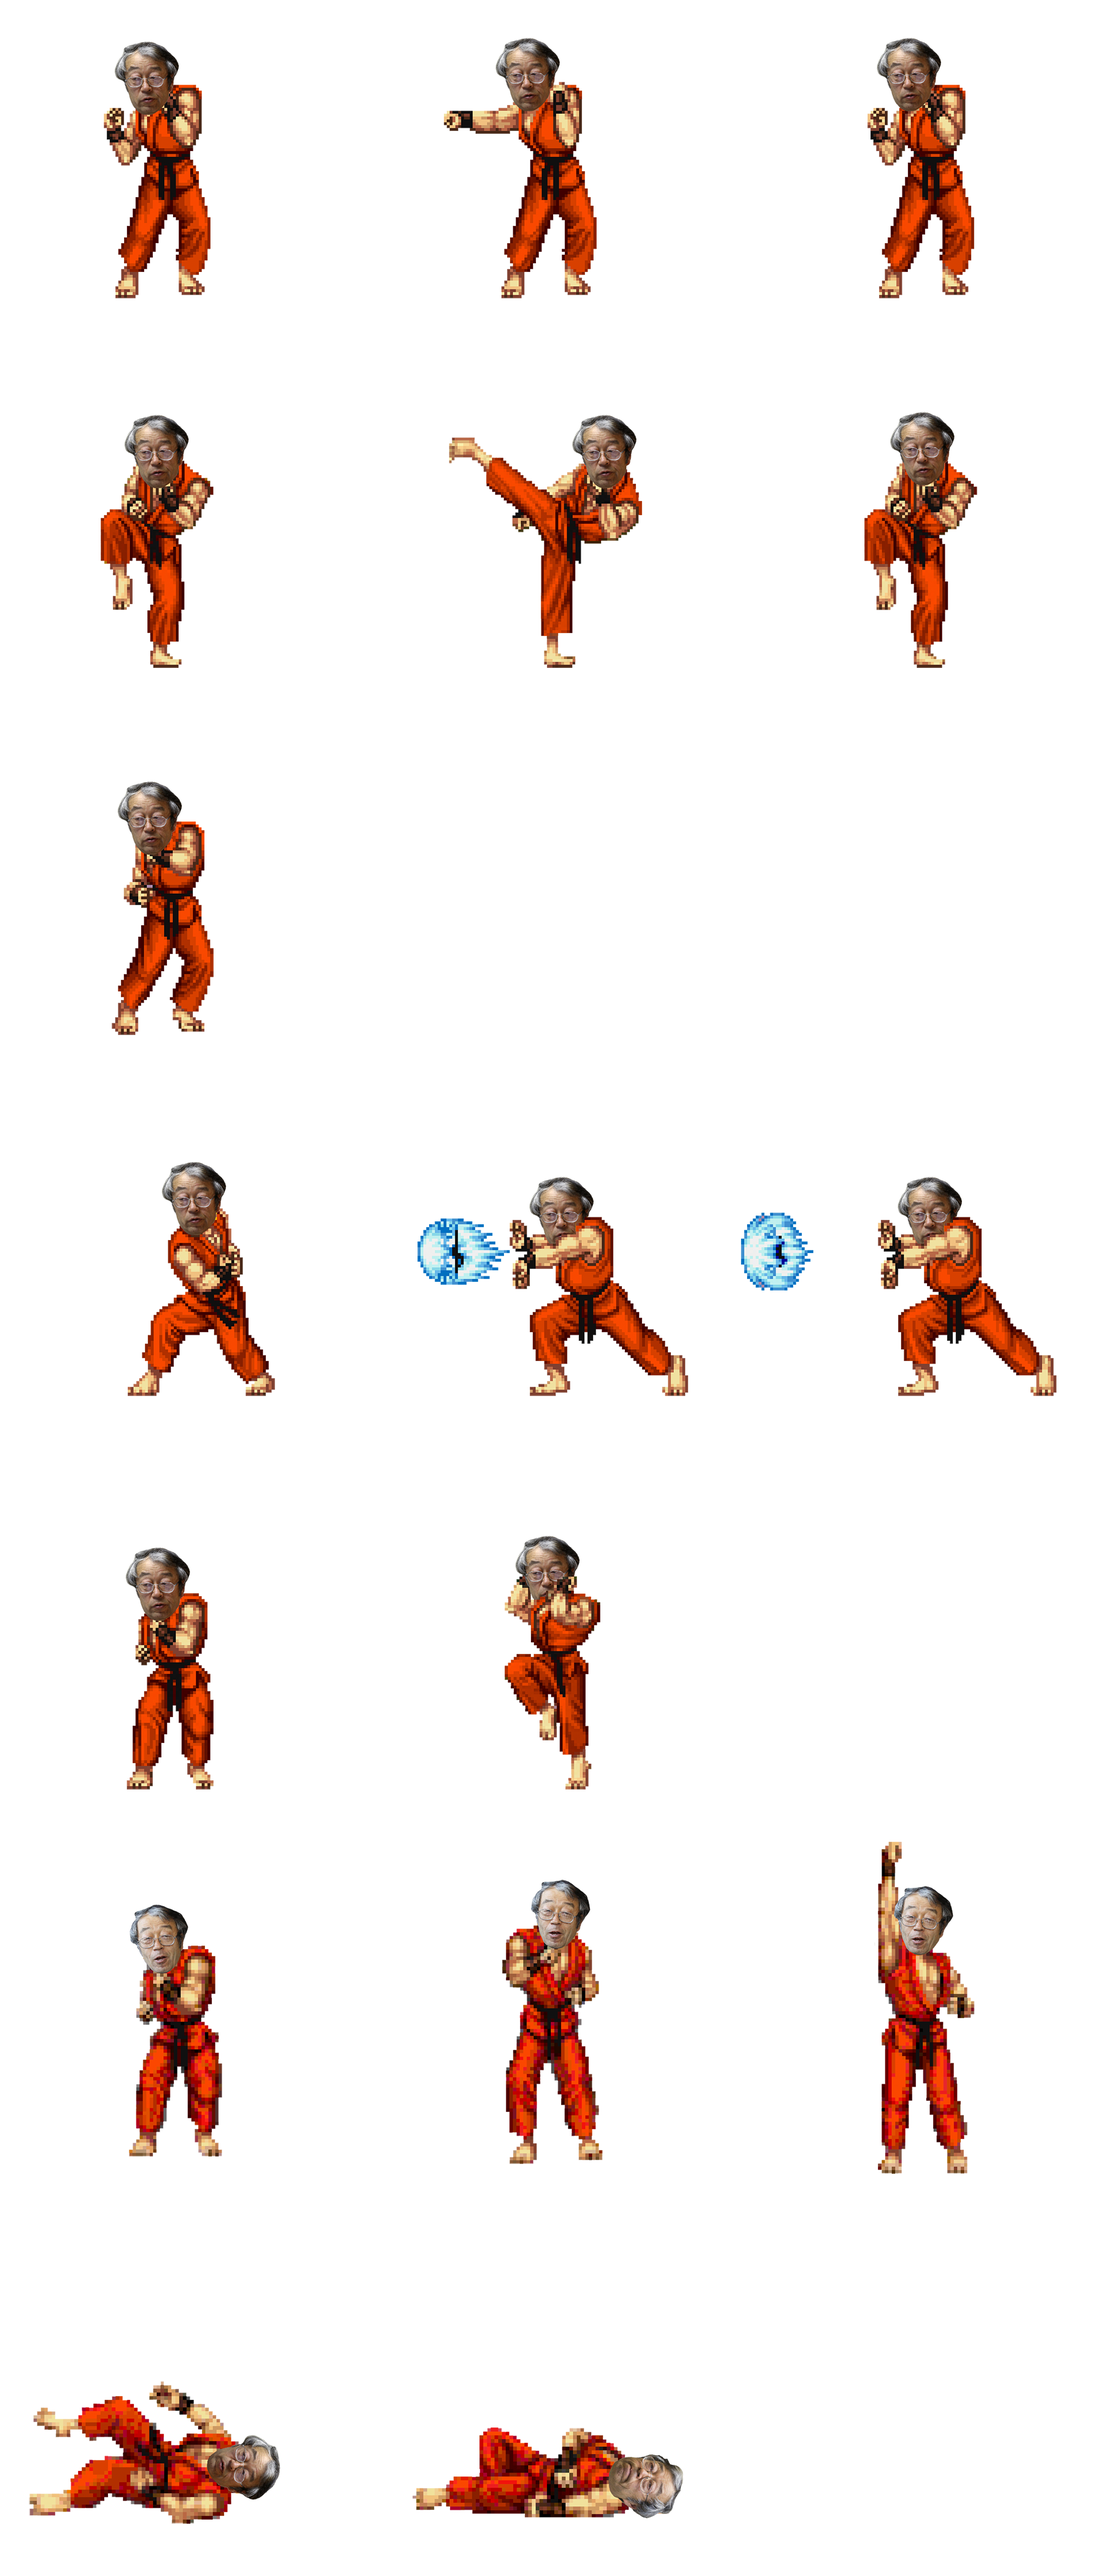
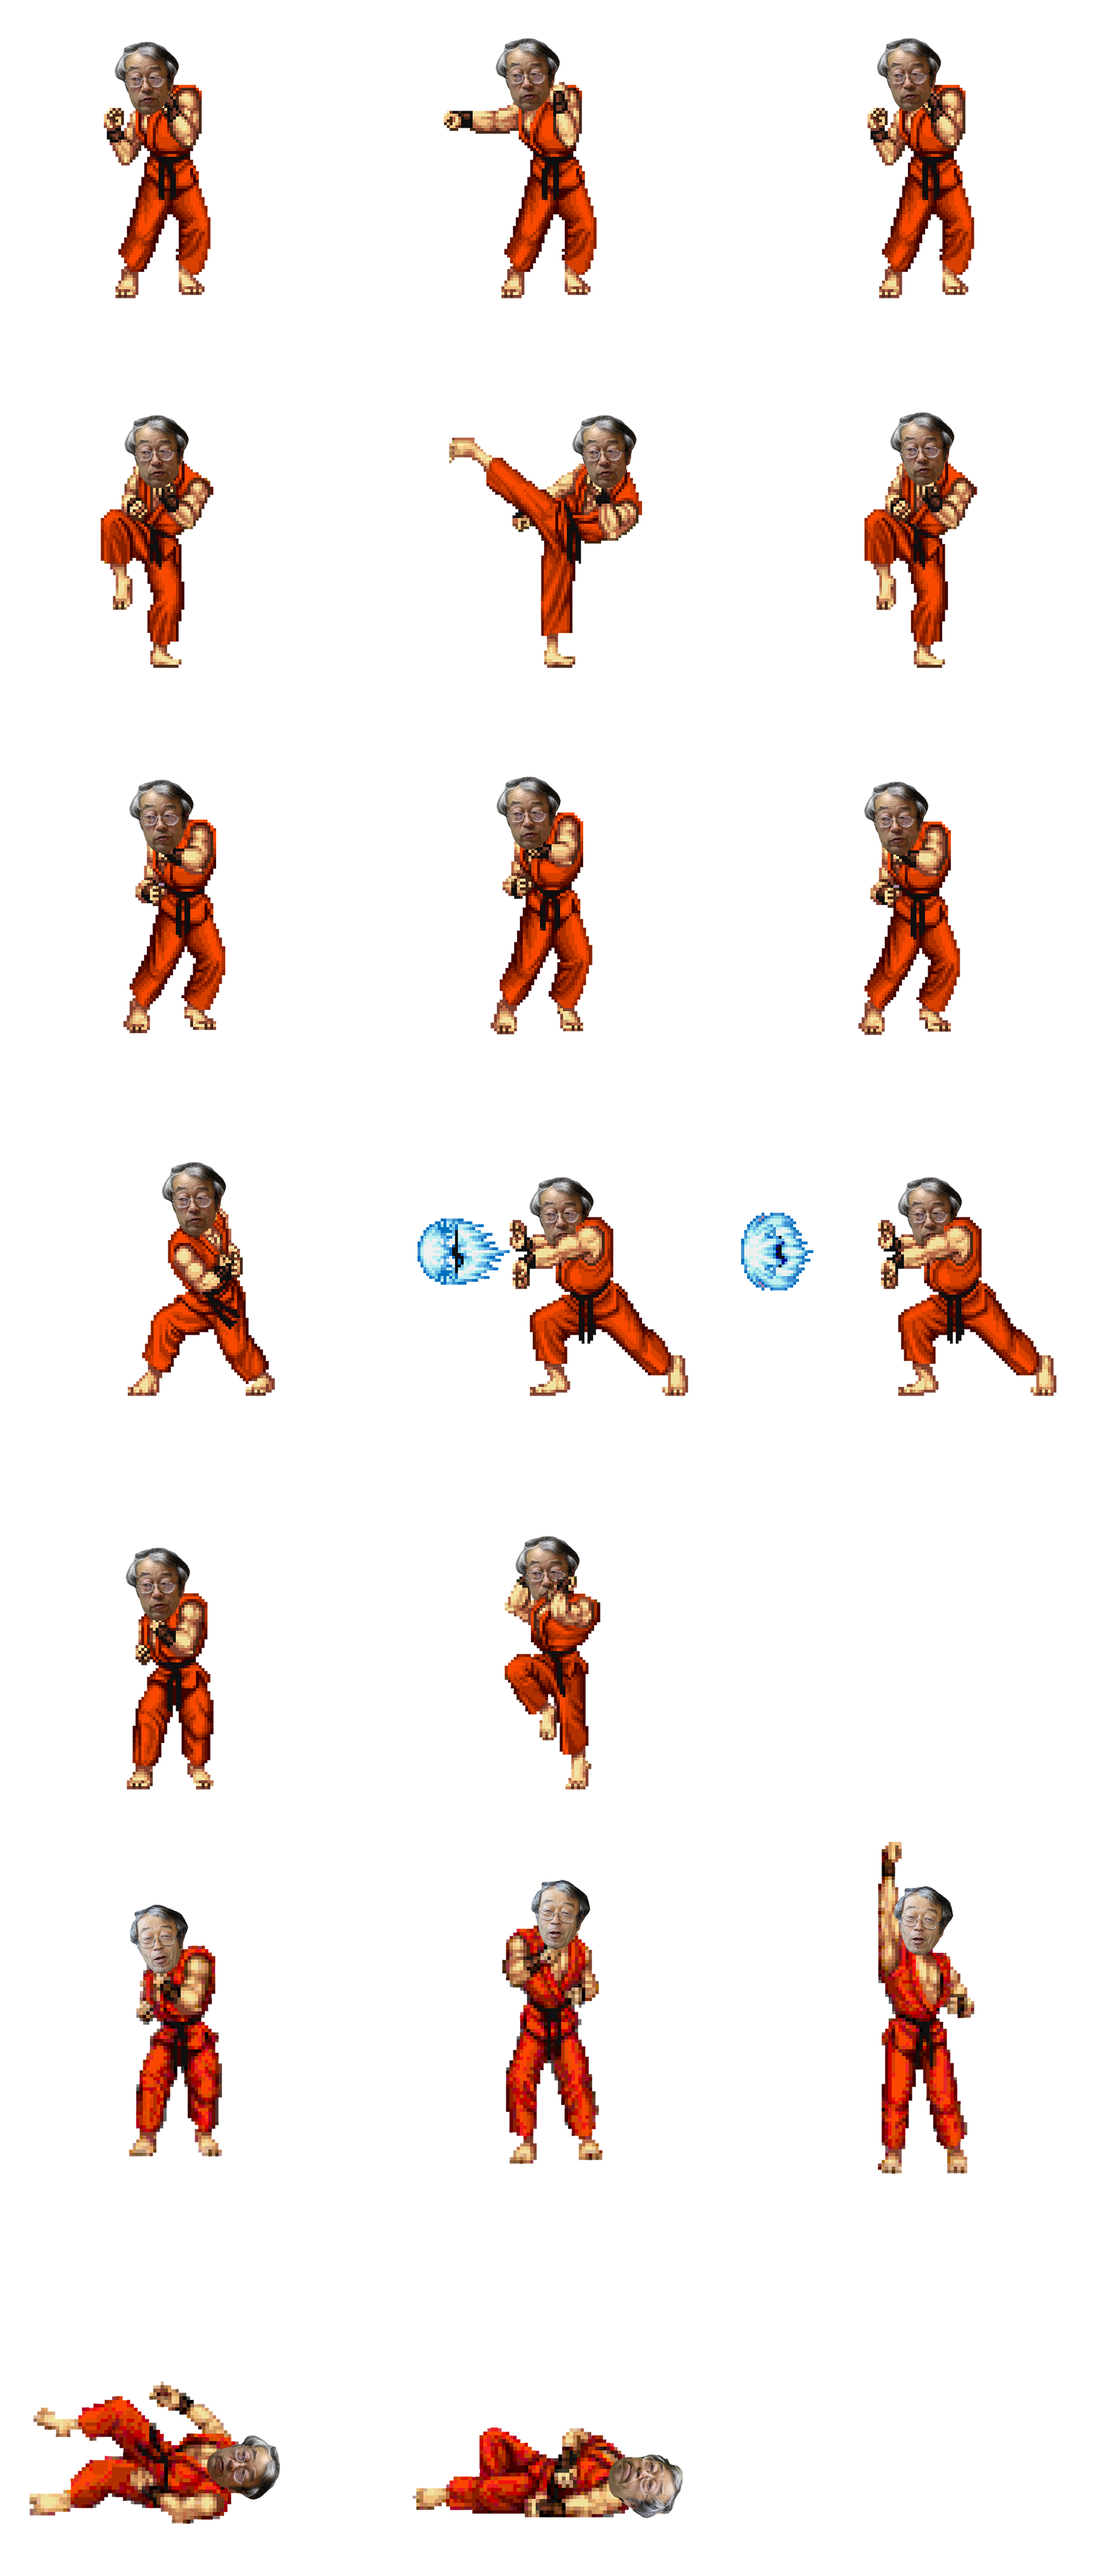
update sprites, health bar

Changed region(s): [[0.0933, 0.281, 0.2178, 0.4059], [0.7778, 0.281, 0.8711, 0.4059], [0.4356, 0.281, 0.5289, 0.4059]]

diff --git a/src/routes/home/components/character.js b/src/routes/home/components/character.js
@@ -1,6 +1,5 @@
 import React, { Component } from 'react';
 import PropTypes from 'prop-types';
-import { observer } from 'mobx-react';
 import Matter from 'matter-js';
 
 import { AudioPlayer, Body, Sprite } from 'react-game-kit';
@@ -29,6 +28,7 @@ export default class Character extends Component {
     this.isActive = props.isActive;
     this.fighter = props.fighter;
     this.health = props.health;
+
     this.isPunching = false;
     this.isKicking = false;
     this.isUltraing = false;
@@ -43,9 +43,10 @@ export default class Character extends Component {
       spritePlaying: true,
       stageX: 0,
       characterPosition: {
-        x: this.side == 'l' ? 0 : 600,
-        y: 0
-      }
+        x: this.side == 'l' ? 0 : 400,
+        y: 20
+      },
+      characterHealth: 2000
     };
 
     this.handlePlayStateChanged = this.handlePlayStateChanged.bind(this);
@@ -88,7 +89,9 @@ export default class Character extends Component {
     return (
       <div>
         <div style={this.getWrapperStyles()}>
-          <HealthBar />
+          <HealthBar 
+            health={this.state.characterHealth}
+          />
           <Body
             args={[x, 84, 600, 600]}
             inertia={Infinity}
@@ -102,7 +105,7 @@ export default class Character extends Component {
               src={"./src/assets/fighter"+this.fighter+"_"+this.side+".png"}
               scale={this.context.scale}
               state={this.state.characterState}
-              steps={[2, 2, 0, 2, 1, 2, 1]}
+              steps={[2, 2, 2, 2, 1, 2, 1]}
               tileHeight={600}
               tileWidth={600}
             />
@@ -166,9 +169,15 @@ export default class Character extends Component {
     this.isWon = true;
     this.setState({
       characterState: 5,
-      repeat: false,
+      repeat: true,
     });
   };
+
+  loseHealth(point) {
+    this.setState({
+      characterHealth: (this.state.characterHealth - 20 * point) >= 0 ? (this.state.characterHealth - 20 * point) : 0
+    });
+  }
 
   checkKeys(shouldMoveStageLeft, shouldMoveStageRight) {
     const { keys, store } = this.props;
@@ -194,6 +203,7 @@ export default class Character extends Component {
         this.punch();
         characterState = 0;
       } else if (keys.isDown(85)) {
+        this.loseHealth(2);
         this.move(body, 5);
         this.ultra();
         characterState = 3;
@@ -210,14 +220,13 @@ export default class Character extends Component {
 
       this.setState({
         characterState,
-        repeat: characterState < 7,
+        repeat: characterState < 6,
       });
 
     }
   };
 
   update() {
-    const { store } = this.props;
     const { body } = this.body;
 
     const midPoint = Math.abs(this.state.stageX) + 448;
@@ -226,11 +235,21 @@ export default class Character extends Component {
     const shouldMoveStageRight =
       body.position.x > midPoint && this.state.stageX > -2048;
 
-    const velY = parseFloat(body.velocity.y.toFixed(10));
+    // const velY = parseFloat(body.velocity.y.toFixed(10));
 
-    if (velY === 0) {
-      this.isJumping = false;
-      Matter.Body.set(body, 'friction', 0.9999);
+    // if (velY === 0) {
+    //   this.isJumping = false;
+    //   Matter.Body.set(body, 'friction', 0.9999);
+    // }
+
+    if (this.state.characterHealth == 0) {
+      console.log("KO!");
+      this.KO();
+      characterState = 6;
+      this.setState({
+        characterState,
+        repeat: true,
+      });
     }
 
     if (!this.isJumping && !this.isPunching && !this.isLeaving) {

diff --git a/src/routes/home/components/Fight.js b/src/routes/home/components/Fight.js
@@ -1,12 +1,10 @@
 import React, { Component } from 'react';
 // import PropTypes from 'prop-types';
-// import bgImage from './assets/background.jpg';
 
 import Matter from 'matter-js';
 
 import { AudioPlayer, Loop, Stage, KeyListener, World } from 'react-game-kit';
 import Character from './character';
-import HealthBar from './healthBar';
 
 class Fight extends Component {
   // static propTypes = {
@@ -39,8 +37,11 @@ class Fight extends Component {
   }
 
   render() {
+    // const bgStyles = {
+    //   backgroundImage: "url('./src/assets/background.jpg') top center fixed"
+    // };
     let stageStyle = {
-      background: "url('./src/assets/background.jpg') top center fixed",
+      background: "url('./src/assets/backgroundFight.jpg') top center fixed",
     };
     return (
       <Loop>
@@ -48,14 +49,14 @@ class Fight extends Component {
           <World onInit={this.physicsInit}>
             <Character
               fighter={this.fighters[0].name}
-              isActive={false}
+              isActive={true}
               side="l"
               keys={this.KeyListener}
               health={this.fighters[0].health}
             />
             <Character
               fighter={this.fighters[1].name}
-              isActive={true}
+              isActive={false}
               side="r"
               keys={this.KeyListener}
               health={this.fighters[1].health}
@@ -67,7 +68,7 @@ class Fight extends Component {
   }
 
   physicsInit(engine) {
-    const ground = Matter.Bodies.rectangle(512 * 3, 448, 1024 * 3, 64, {
+    const ground = Matter.Bodies.rectangle(0, 448, 1024 * 3, 64, {
       isStatic: true,
     });
 
@@ -89,11 +90,11 @@ class Fight extends Component {
     this.KeyListener = new KeyListener();
     let V = {
       name: 'Vitalik',
-      health: 1
+      health: 2000
     }
     let S = {
       name: 'Satoshi',
-      health: 1
+      health: 2000
     }
     this.fighters = [V, S];
   }

diff --git a/src/routes/home/components/healthBar.js b/src/routes/home/components/healthBar.js
@@ -1,0 +1,47 @@
+import React, { Component } from 'react';
+import PropTypes from 'prop-types';
+
+export default class HealthBar extends Component {
+  static propTypes = {
+    health: PropTypes.number,
+  };
+  
+  constructor() {
+    super();
+    // debugger;
+    this.state = { 
+      health: 2000,
+      spent: 2000,
+      spending: 0,
+    };
+    
+    this.setHealth = this.setHealth.bind(this);
+  }
+  
+  setHealth(amount) {
+    this.setState({spent: amount});
+  }
+
+  componentDidUpdate(prevProps, prevState) {
+    if (prevProps !== this.props) {
+      this.setHealth(this.props.health);
+    }
+  }
+ 
+  render() {
+    
+    let bal = (this.state.health - this.state.spent - this.state.spending)
+    let spentPercent = (this.state.spent / this.state.health * 100);
+    let spendingPercent = (this.state.spending / this.state.health * 100);
+    let balPercent = (100 - spentPercent - spendingPercent);
+    return (
+      <div>
+        <div className='balanceBar'>
+          <div className='balanceSection spent' style={{'width': spentPercent+'%'}}></div>
+          <div className='balanceSection spending' style={{'width': spendingPercent+'%'}}></div>
+          <div id='left' className='balanceSection left' style={{'width': balPercent+'%'}}></div>    
+        </div>
+      </div>
+    );
+  }
+}

diff --git a/public/index.css b/public/index.css
@@ -1,0 +1,39 @@
+body {
+    margin: 0;
+}
+
+.balanceBar {
+  width: 60%;
+  height: 20px;
+  border: 2px #ccc solid;
+  text-align: center;
+  margin: 0 auto;
+}
+
+.balanceSection {
+  display: inline-block;
+  height: 20px;
+  font-size: 10pt;
+  vertical-align: top;
+  text-align: center;
+}
+
+.balanceSection p {
+  margin: 0;
+  padding: 3px;
+}
+
+.spent {
+  background-color: #83EC8F;
+  transition: width 1s ease-in-out;
+}
+
+.spending {
+  background-color: #F2EE45;
+  transition: width 1s ease-in-out;
+}
+
+.left {
+  background-color: #f9003b;
+  transition: width 1s ease-in-out;
+}

diff --git a/public/index.html b/public/index.html
@@ -11,6 +11,7 @@
     <link rel="manifest" href="%PUBLIC_URL%/manifest.json">
     <link rel="shortcut icon" href="%PUBLIC_URL%/favicon.ico">
     <link href="https://fonts.googleapis.com/icon?family=Material+Icons" rel="stylesheet">
+    <link rel="stylesheet" type="text/css" href="index.css">
     <!--
       Notice the use of %PUBLIC_URL% in the tags above.
       It will be replaced with the URL of the `public` folder during the build.
